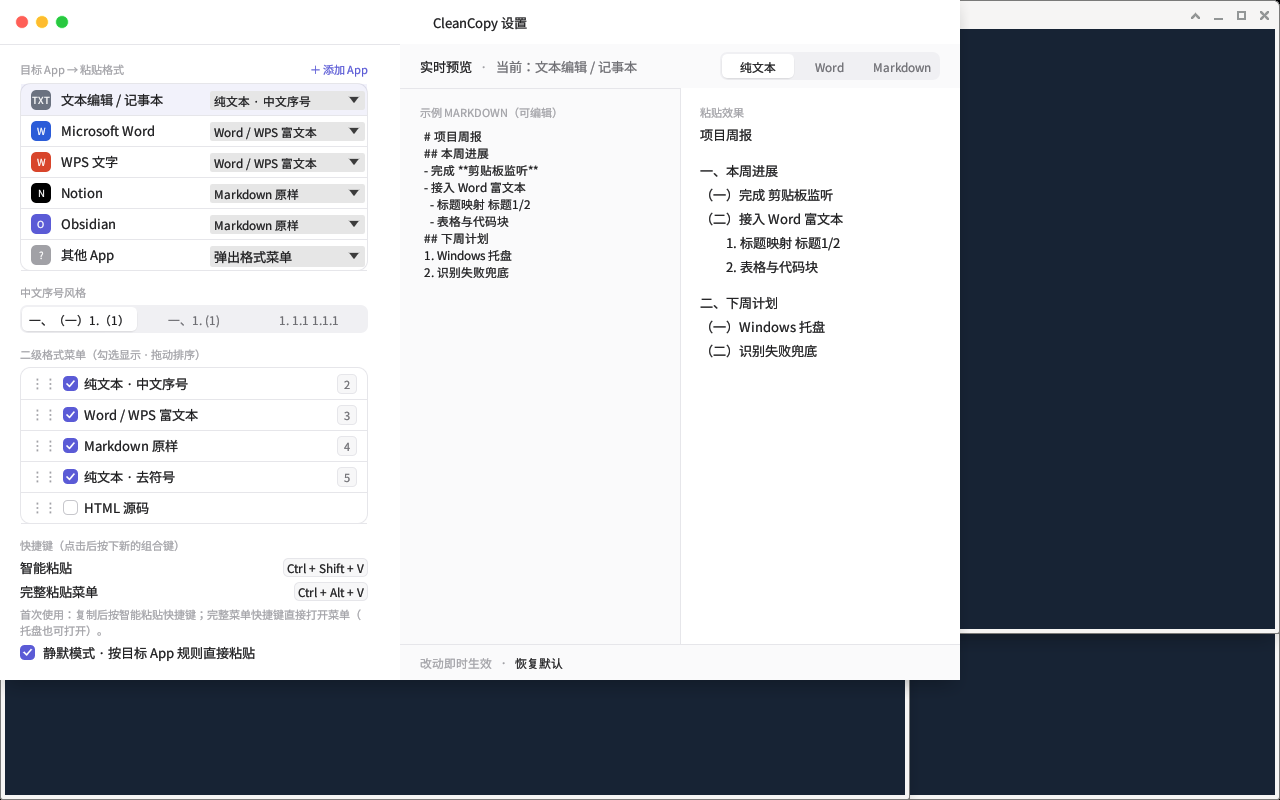
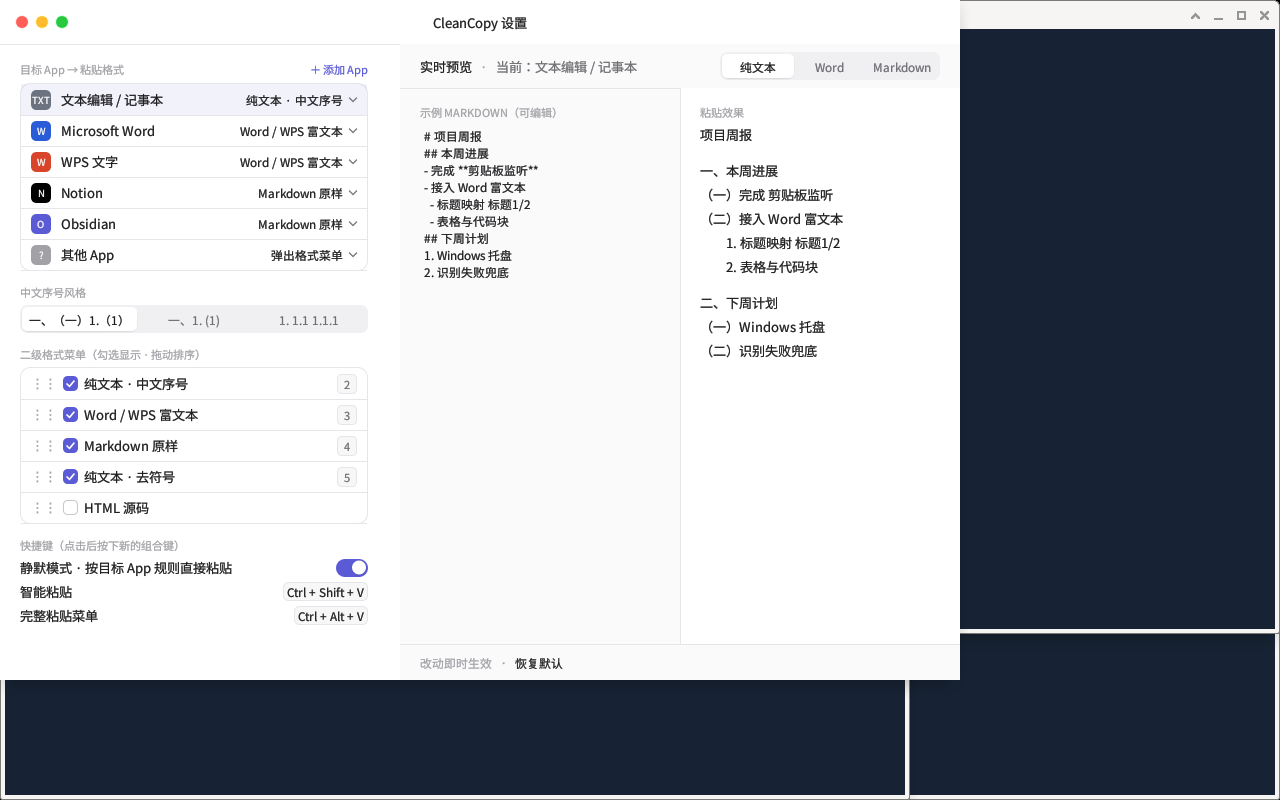
settings: borderless right-aligned dropdowns, 静默模式 switch in 快捷键 row, drop 首次使用 note; menu label weight test; screenshots

Changed region(s): [[0.0, 0.6875, 0.2812, 0.8438], [0.1562, 0.0938, 0.2812, 0.3438]]

diff --git a/crates/cleancopy-desktop/src/ui/settings.rs b/crates/cleancopy-desktop/src/ui/settings.rs
@@ -239,22 +239,9 @@ impl SettingsState {
                     }
                 }
                 let old = config.fallback;
-                egui::ComboBox::from_id_salt("fallback")
-                    .width(155.0)
-                    .selected_text(match config.fallback {
-                        Fallback::Popup => "弹出格式菜单",
-                        Fallback::Fixed(f) => format_name(f),
-                    })
-                    .show_ui(ui, |ui| {
-                        ui.selectable_value(&mut config.fallback, Fallback::Popup, "弹出格式菜单");
-                        for format in FORMATS {
-                            ui.selectable_value(
-                                &mut config.fallback,
-                                Fallback::Fixed(format),
-                                format_name(format),
-                            );
-                        }
-                    });
+                let mut options = vec![(Fallback::Popup, "弹出格式菜单")];
+                options.extend(FORMATS.map(|f| (Fallback::Fixed(f), format_name(f))));
+                dropdown(ui, "fallback", &mut config.fallback, &options, 155.0);
                 if old != config.fallback {
                     changed = true;
                     self.selected_app = "其他 App".into();
@@ -326,6 +313,15 @@ impl SettingsState {
         }
         ui.add_space(8.0);
         section(ui, "快捷键（点击后按下新的组合键）");
+        ui.horizontal(|ui| {
+            let label = "静默模式 · 按目标 App 规则直接粘贴";
+            ui.label(label);
+            ui.with_layout(egui::Layout::right_to_left(egui::Align::Center), |ui| {
+                changed |= toggle(ui, &mut config.silent_mode, label)
+                    .on_hover_text("关闭后先显示格式菜单；其他 App 的兜底规则仍然生效")
+                    .changed();
+            });
+        });
         for (target, label, hotkey) in [
             (HotkeyTarget::Paste, "智能粘贴", &config.hotkey),
             (
@@ -361,20 +357,6 @@ impl SettingsState {
         if let Some(error) = &self.hotkey_error {
             ui.colored_label(Color32::DARK_RED, error);
         }
-        ui.label(
-            RichText::new(
-                "首次使用：复制后按智能粘贴快捷键；完整菜单快捷键直接打开菜单（托盘也可打开）。",
-            )
-            .size(11.0)
-            .color(MUTED),
-        );
-        ui.horizontal(|ui| {
-            let label = "静默模式 · 按目标 App 规则直接粘贴";
-            changed |= check(ui, &mut config.silent_mode, label)
-                .on_hover_text("关闭后先显示格式菜单；其他 App 的兜底规则仍然生效")
-                .changed();
-            ui.label(label);
-        });
         changed
     }
 
@@ -553,16 +535,13 @@ impl SettingsState {
                 ui.label("显示名称");
                 ui.text_edit_singleline(&mut self.app_name);
                 ui.label("匹配标识（不是窗口标题）");
-                egui::ComboBox::from_id_salt("identifier_kind")
-                    .selected_text(["Bundle ID", "可执行文件名", "WM_CLASS"][self.identifier_kind])
-                    .show_ui(ui, |ui| {
-                        for (i, label) in ["Bundle ID", "可执行文件名", "WM_CLASS"]
-                            .into_iter()
-                            .enumerate()
-                        {
-                            ui.selectable_value(&mut self.identifier_kind, i, label);
-                        }
-                    });
+                dropdown(
+                    ui,
+                    "identifier_kind",
+                    &mut self.identifier_kind,
+                    &[(0, "Bundle ID"), (1, "可执行文件名"), (2, "WM_CLASS")],
+                    155.0,
+                );
                 ui.add(
                     egui::TextEdit::singleline(&mut self.app_identifier).hint_text(
                         [
@@ -834,16 +813,95 @@ fn format_name(format: Format) -> &'static str {
     }
 }
 fn format_combo(ui: &mut egui::Ui, id: impl std::hash::Hash, value: &mut Format) -> bool {
-    let old = *value;
-    egui::ComboBox::from_id_salt(id)
-        .width(155.0)
-        .selected_text(RichText::new(format_name(*value)).size(12.0))
-        .show_ui(ui, |ui| {
-            for format in FORMATS {
-                ui.selectable_value(value, format, format_name(format));
+    let options = FORMATS.map(|f| (f, format_name(f)));
+    dropdown(ui, id, value, &options, 155.0)
+}
+
+/// Borderless select: right-aligned text plus a chevron, light gray only on
+/// hover/open. Replaces egui's ComboBox gray block and filled triangle.
+fn dropdown<T: Copy + PartialEq>(
+    ui: &mut egui::Ui,
+    id: impl std::hash::Hash,
+    value: &mut T,
+    options: &[(T, &str)],
+    width: f32,
+) -> bool {
+    let popup_id = ui.make_persistent_id(("dropdown", id));
+    let current = options
+        .iter()
+        .find(|(v, _)| v == value)
+        .map(|(_, l)| *l)
+        .unwrap_or("");
+    let (rect, response) = ui.allocate_exact_size(Vec2::new(width, 24.0), egui::Sense::click());
+    let open = ui.memory(|m| m.is_popup_open(popup_id));
+    if response.hovered() || open {
+        ui.painter().rect_filled(rect, 5.0, SEG_TRACK);
+    }
+    let chevron = egui::pos2(rect.right() - 12.0, rect.center().y);
+    ui.painter().line(
+        vec![
+            chevron + Vec2::new(-3.5, -1.5),
+            chevron + Vec2::new(0.0, 2.0),
+            chevron + Vec2::new(3.5, -1.5),
+        ],
+        Stroke::new(1.3_f32, SUB),
+    );
+    ui.painter().with_clip_rect(rect).text(
+        egui::pos2(rect.right() - 22.0, rect.center().y),
+        egui::Align2::RIGHT_CENTER,
+        current,
+        FontId::proportional(12.0),
+        TEXT,
+    );
+    response.widget_info(|| egui::WidgetInfo::labeled(egui::WidgetType::ComboBox, true, current));
+    if response.clicked() {
+        ui.memory_mut(|m| m.toggle_popup(popup_id));
+    }
+    let mut changed = false;
+    egui::popup_below_widget(
+        ui,
+        popup_id,
+        &response,
+        egui::PopupCloseBehavior::CloseOnClick,
+        |ui| {
+            ui.set_min_width(width);
+            for (option, label) in options {
+                if ui
+                    .selectable_label(*value == *option, RichText::new(*label).size(12.0))
+                    .clicked()
+                    && *value != *option
+                {
+                    *value = *option;
+                    changed = true;
+                }
             }
-        });
-    old != *value
+        },
+    );
+    changed
+}
+
+/// iOS/macOS-style switch (accent when on, gray when off).
+fn toggle(ui: &mut egui::Ui, value: &mut bool, label: &str) -> egui::Response {
+    let (rect, mut response) = ui.allocate_exact_size(Vec2::new(32.0, 18.0), egui::Sense::click());
+    if response.clicked() {
+        *value = !*value;
+        response.mark_changed();
+    }
+    let on = *value;
+    response
+        .widget_info(|| egui::WidgetInfo::selected(egui::WidgetType::Checkbox, true, on, label));
+    let t = ui.ctx().animate_bool_with_time(response.id, on, 0.12);
+    let track = Color32::from_rgb(214, 214, 219).lerp_to_gamma(ACCENT, t);
+    ui.painter().rect_filled(rect, 9.0, track);
+    let x = egui::lerp(rect.left() + 9.0..=rect.right() - 9.0, t);
+    let knob = egui::pos2(x, rect.center().y);
+    ui.painter().circle_filled(
+        knob + Vec2::new(0.0, 0.5),
+        7.5,
+        Color32::from_black_alpha(30),
+    );
+    ui.painter().circle_filled(knob, 7.0, Color32::WHITE);
+    response
 }
 fn display_name(name: &str) -> &str {
     match name {

diff --git a/crates/cleancopy-desktop/src/ui/menus.rs b/crates/cleancopy-desktop/src/ui/menus.rs
@@ -1070,6 +1070,37 @@ mod tests {
     }
 
     #[test]
+    fn item_labels_are_painted_once_in_regular_weight() {
+        let ctx = egui::Context::default();
+        super::super::fonts::install(&ctx);
+        let model = render_model();
+        let mut state = MenuState::default();
+        let mut output = None;
+        for _ in 0..3 {
+            output = Some(ctx.run(
+                egui::RawInput {
+                    screen_rect: Some(Rect::from_min_size(Pos2::ZERO, Vec2::new(960.0, 600.0))),
+                    ..Default::default()
+                },
+                |ctx| {
+                    state.show(ctx, &model, false);
+                },
+            ));
+        }
+        let mut hits = Vec::new();
+        for shape in output.unwrap().shapes {
+            if let egui::epaint::Shape::Text(text) = shape.shape {
+                if text.galley.job.text == "粘贴原文" {
+                    hits.push(text.galley.job.sections[0].format.font_id.clone());
+                }
+            }
+        }
+        eprintln!("label shapes: {hits:?}");
+        assert_eq!(hits.len(), 1, "{hits:?}");
+        assert_eq!(hits[0].family, egui::FontFamily::Proportional);
+    }
+
+    #[test]
     fn summary_renders_model_count_and_hides_badge_before_clipping_warning() {
         let ctx = egui::Context::default();
         super::super::fonts::install(&ctx);

diff --git a/docs/visual-diff.md b/docs/visual-diff.md
@@ -41,11 +41,16 @@ keeps the opaque solid fill (verified by screenshots).
 - Remember row: mock shows a muted `✓`; ours is a functional `☐/☑` checkbox.
 - Tray mock shows `⌘,` / `⌘Q` caps for 设置/退出; those shortcuts do not exist on
   Linux, so no caps are drawn. Tray "recent" rows use sample data in preview.
-- Row label weight renders slightly heavier than the mock with the installed
-  Noto Sans CJK at 13 px; font metrics are system-dependent.
+- Menu item labels are Proportional 13 px regular, painted once (unit test
+  `item_labels_are_painted_once_in_regular_weight`), identical to settings body
+  text. They still look heavier than the browser mock because epaint 0.31
+  boosts glyph coverage with a fixed 0.55 gamma (`ImageData::srgba_pixels`),
+  which eframe does not expose; dense CJK makes it most visible.
 - Settings (960×680, compared against settings.png): sections all visible
-  without scrolling; left column scrolls independently. Remaining: ComboBoxes
-  are egui gray instead of white bordered selects; the Markdown source pane is
+  without scrolling; left column scrolls independently. Dropdowns are now
+  borderless right-aligned text + chevron (gray only on hover/open); 静默模式 is
+  a switch in the first 快捷键 row; the 首次使用 note was removed (no onboarding
+  screen exists yet to hold it). Remaining: the Markdown source pane is
   not syntax-coloured; section titles are 400 not 500 (no Medium CJK face is
   installed on this Linux box, and bold is forbidden); 二级菜单 shows all 5
   formats (mock shows 4); 唤出快捷键 is shown as two editable shortcut rows.
